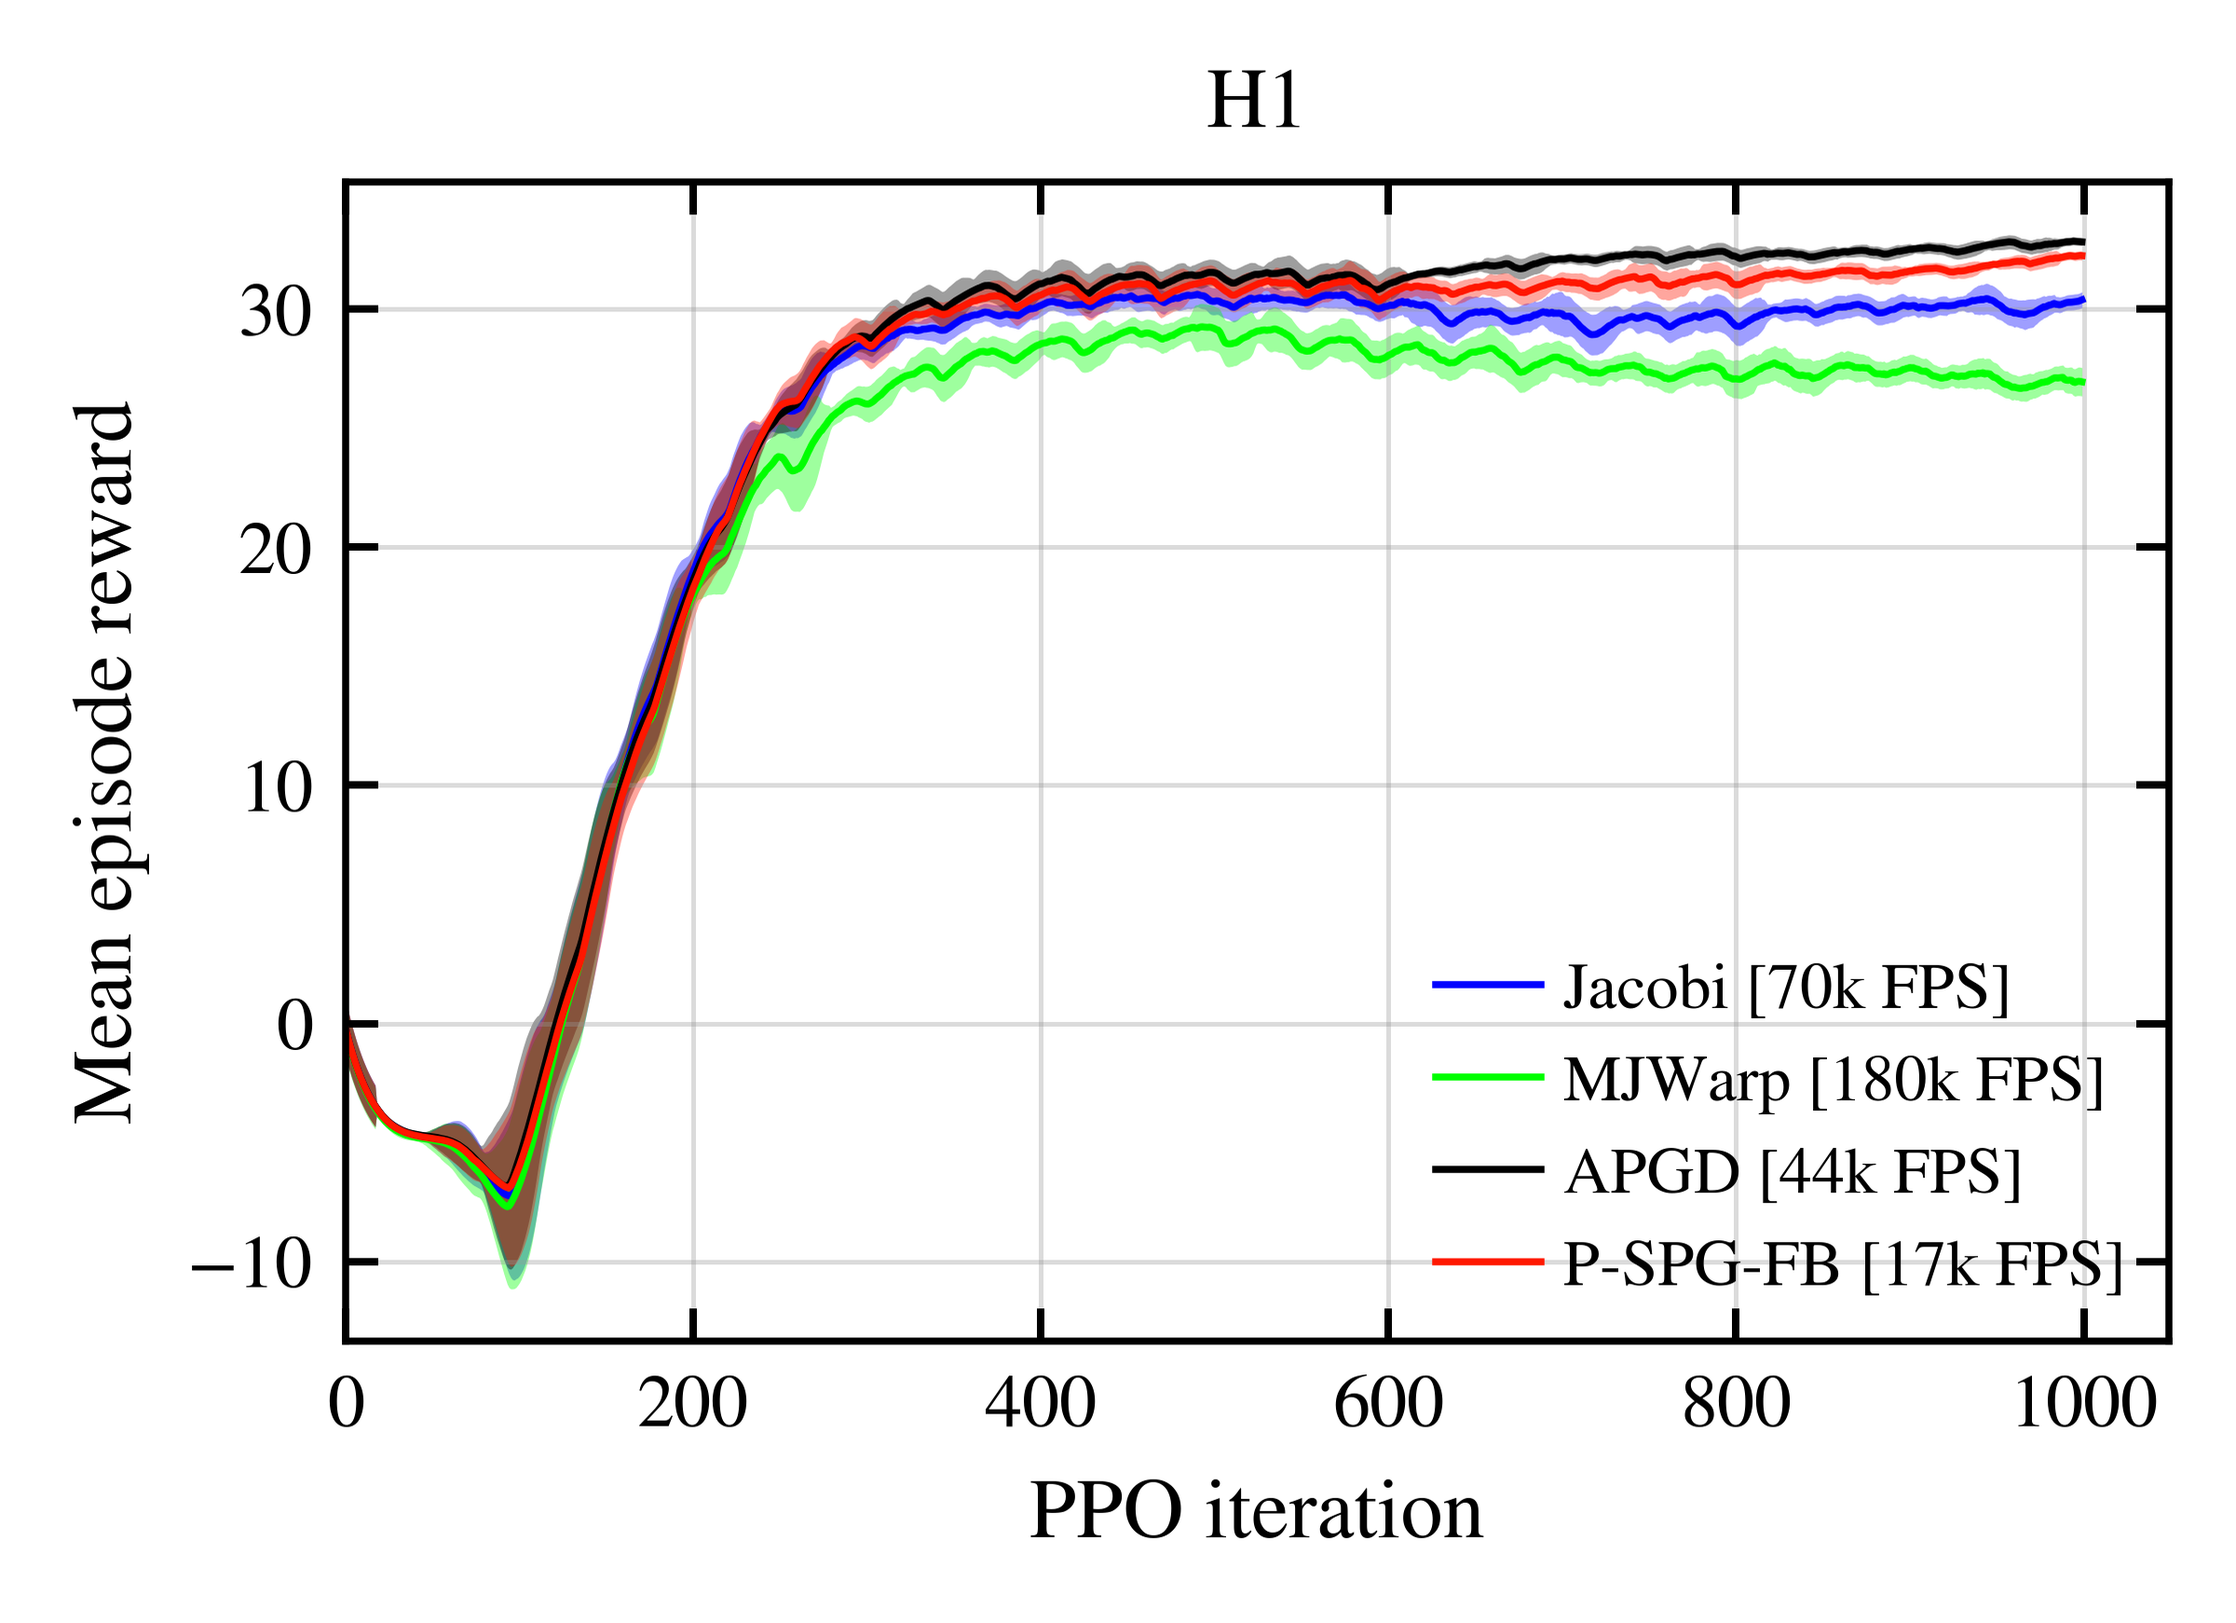
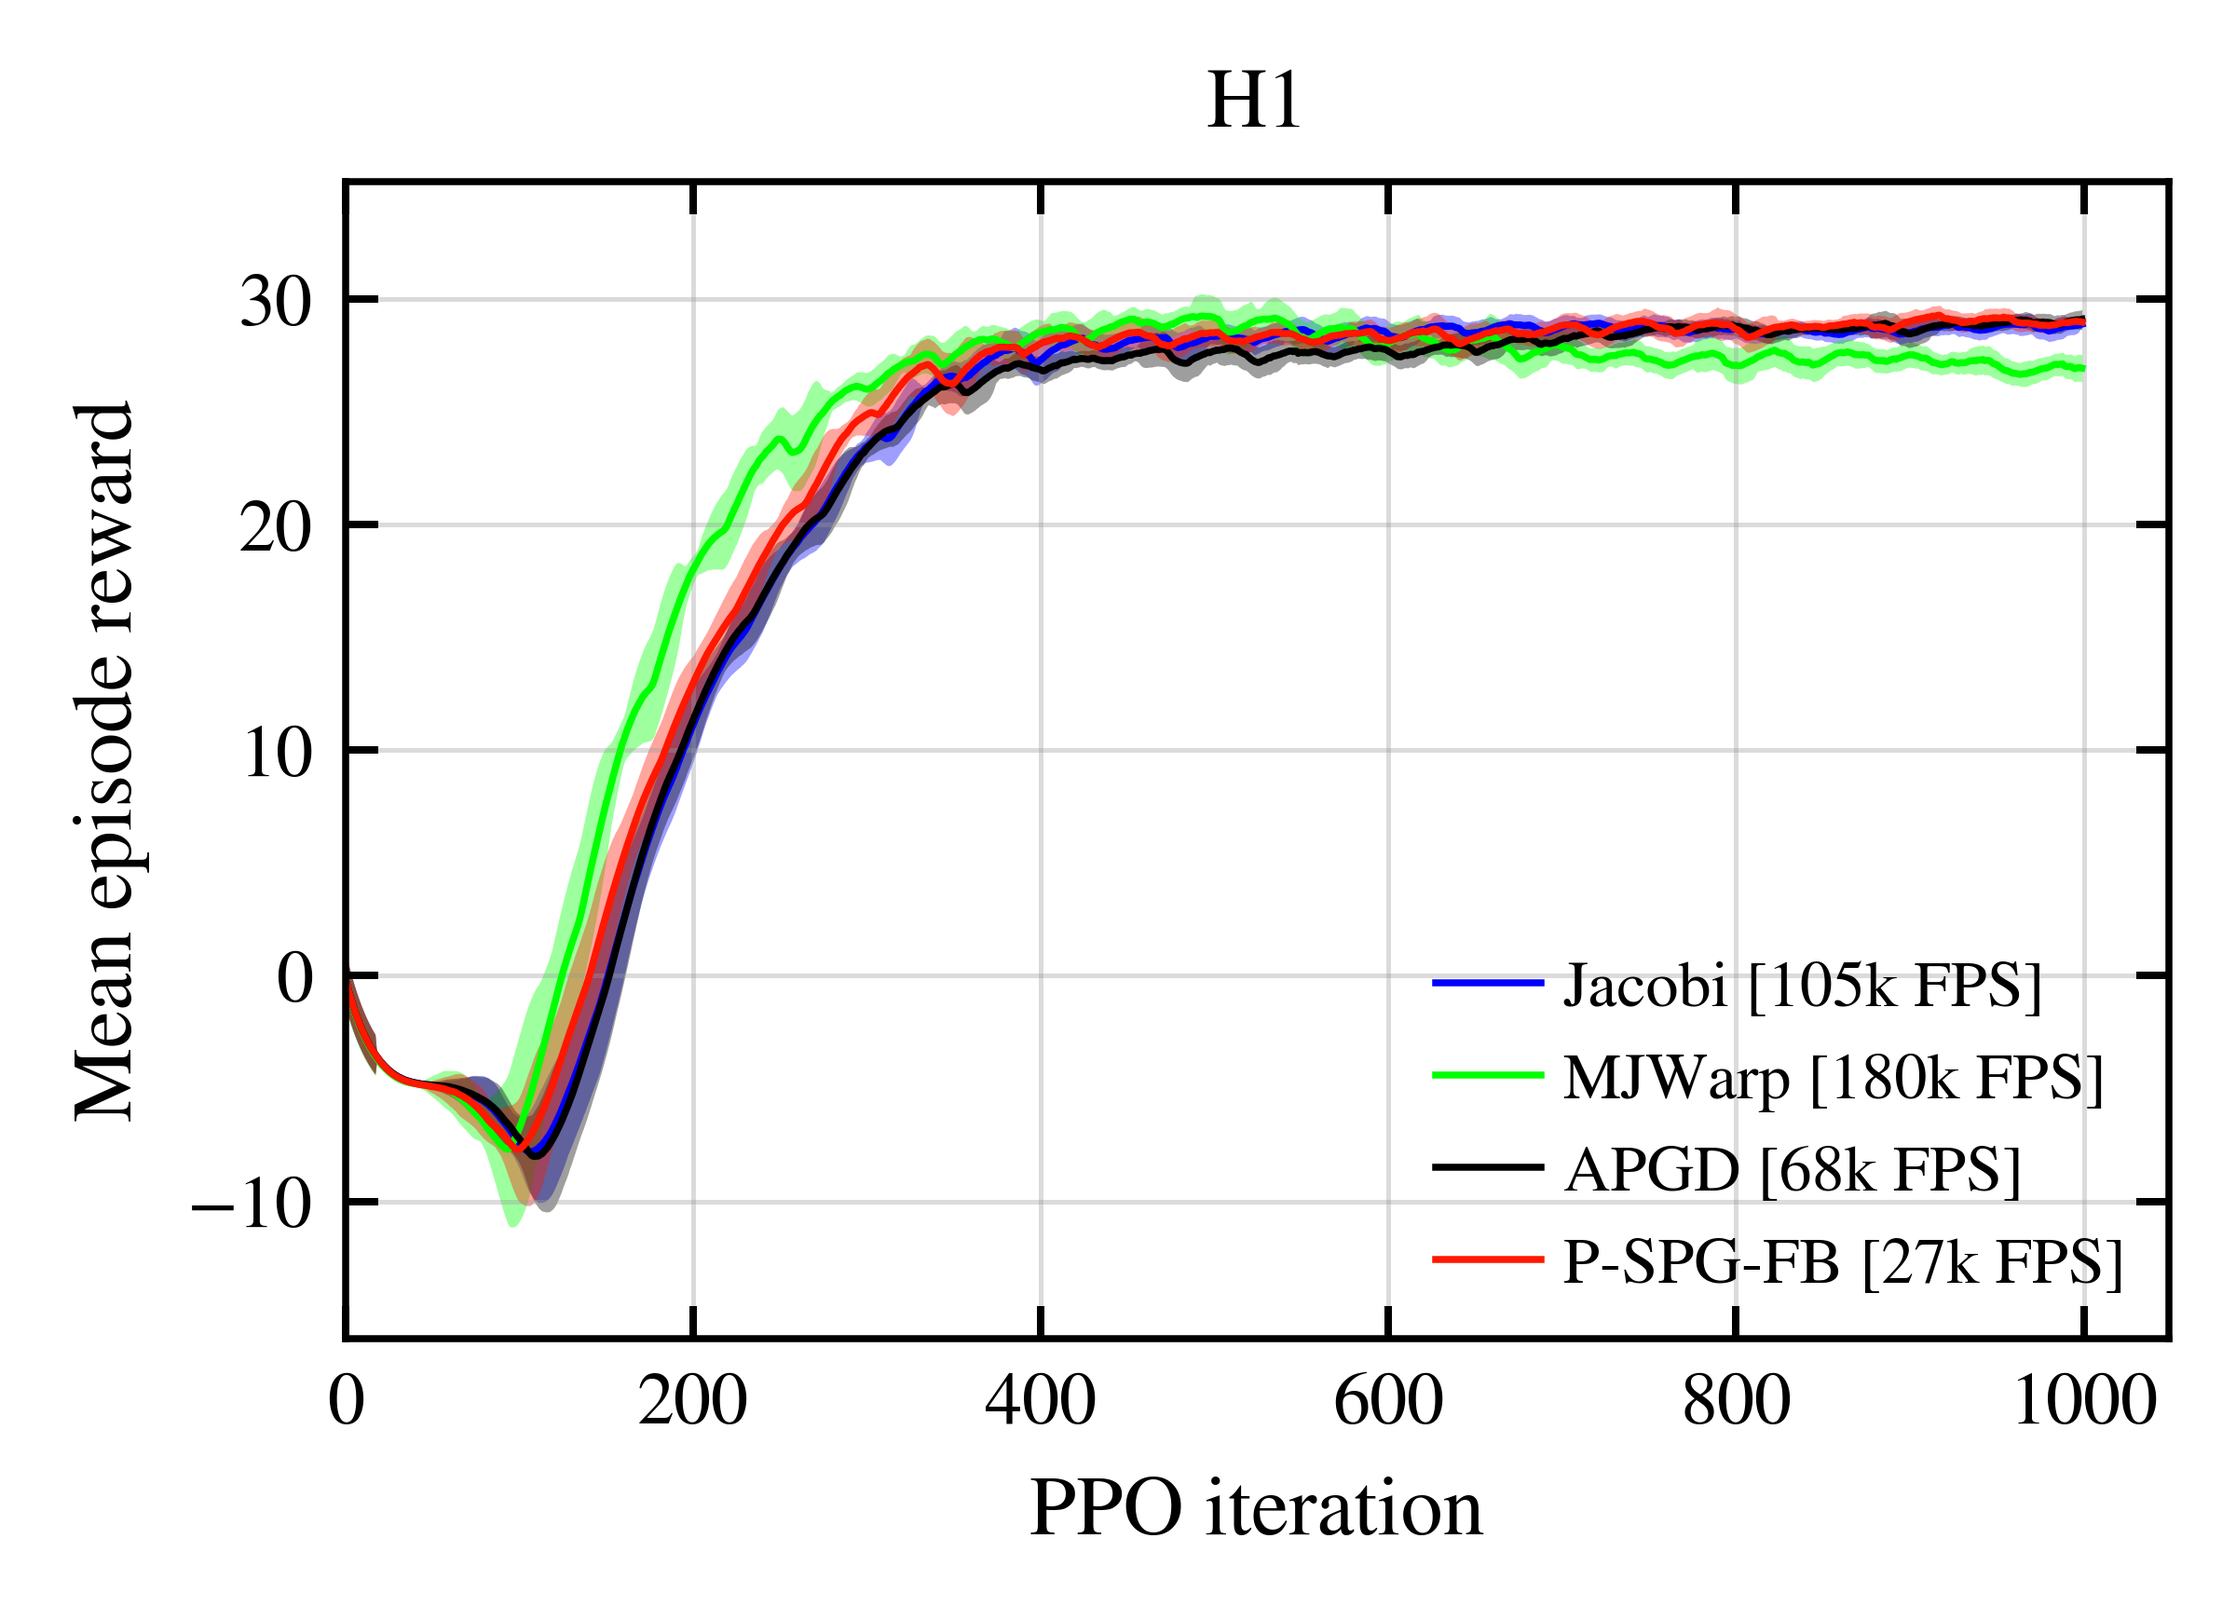
Update RL figures from the latest report results

diff --git a/index.html b/index.html
@@ -143,8 +143,8 @@
             <span class="media-badge" data-demo-badge>Closed-loop mechanism</span>
           </div>
           <figure class="result-wide task-plot">
-            <div class="plot"><p class="plot-status" data-demo-plot-status role="status" hidden></p><a href="assets/images/drlegs-dvi-kamino-comparison.png" data-demo-plot-link><img src="assets/images/drlegs-dvi-kamino-comparison.png" alt="DR Legs training reward and simulation throughput compared with Kamino." data-demo-plot></a></div>
-            <figcaption aria-live="polite"><span>Learning results · click plot to enlarge</span><p data-demo-plot-caption>DR Legs: reward and simulation throughput for one- and two-sweep DVI and Kamino P-ADMM. Earlier closed-loop experiment.</p><a data-demo-extra hidden></a></figcaption>
+            <div class="plot"><p class="plot-status" data-demo-plot-status role="status" hidden></p><a href="assets/images/drlegs-dvi-kamino-comparison.png?v=776ba93c418e" data-demo-plot-link><img src="assets/images/drlegs-dvi-kamino-comparison.png?v=776ba93c418e" alt="DR Legs reward curves and training throughput for Jacobi, APGD, P-SPG-FB, and Kamino P-ADMM." data-demo-plot></a></div>
+            <figcaption aria-live="polite"><span>Learning results · click plot to enlarge</span><p data-demo-plot-caption>DR Legs: reward and median training throughput for Jacobi, APGD, P-SPG-FB, and Kamino P-ADMM.</p><a data-demo-extra hidden></a></figcaption>
           </figure>
           </div>
           <div class="showcase-panel">
@@ -153,32 +153,32 @@
               <h3 data-demo-title>Disney DR Legs</h3>
               <p data-demo-description>A 31-body serial–parallel robot with 36 revolute joints, 12 actuated coordinates, and six independent loops represented directly in the bilateral constraint graph.</p>
               <div class="task-finding" data-demo-finding>
-                <strong data-demo-finding-title>Closed-loop learning at higher throughput</strong>
-                <p data-demo-finding-text>Comparable final reward to Kamino P-ADMM, with 57.7k simulation steps/s for one DVI sweep and 42.7k for two, versus 6.7k for P-ADMM (8.6× and 6.4× faster).</p>
+                <strong data-demo-finding-title>Closed-loop learning with three contact solvers</strong>
+                <p data-demo-finding-text>Jacobi, APGD, and P-SPG-FB reach final rewards of 378.2, 371.7, and 380.3, respectively, compared with 372.7 for the Kamino P-ADMM reference (means over the final 50 updates).</p>
               </div>
             </div>
 
             <div class="demo-selector" role="group" aria-label="Choose a robot rollout">
               <button class="demo-choice is-active" type="button" aria-pressed="true"
-                data-plot="assets/images/drlegs-dvi-kamino-comparison.png" data-plot-alt="DR Legs training reward and simulation throughput compared with Kamino."
-                data-plot-caption="DR Legs: reward and simulation throughput for one- and two-sweep DVI and Kamino P-ADMM. Earlier closed-loop experiment."
+                data-plot="assets/images/drlegs-dvi-kamino-comparison.png?v=776ba93c418e" data-plot-alt="DR Legs reward curves and training throughput for Jacobi, APGD, P-SPG-FB, and Kamino P-ADMM."
+                data-plot-caption="DR Legs: reward and median training throughput for Jacobi, APGD, P-SPG-FB, and Kamino P-ADMM."
                 data-video="assets/videos/paper-2/drlegs.mp4" data-poster="assets/videos/paper-2/drlegs-poster.jpg"
                 data-title="Disney DR Legs" data-badge="Closed-loop mechanism"
-                data-finding-title="Closed-loop learning at higher throughput"
-                data-finding-text="Comparable final reward to Kamino P-ADMM, with 57.7k simulation steps/s for one DVI sweep and 42.7k for two, versus 6.7k for P-ADMM (8.6× and 6.4× faster)."
+                data-finding-title="Closed-loop learning with three contact solvers"
+                data-finding-text="Jacobi, APGD, and P-SPG-FB reach final rewards of 378.2, 371.7, and 380.3, respectively, compared with 372.7 for the Kamino P-ADMM reference (means over the final 50 updates)."
                 data-description="A 31-body serial–parallel robot with 36 revolute joints, 12 actuated coordinates, and six independent loops represented directly in the bilateral constraint graph.">
                 <img src="assets/videos/paper-2/drlegs-poster.jpg" alt="" loading="lazy"><span><strong>DR Legs</strong><small>Serial–parallel · 6 loops</small></span>
               </button>
               <button class="demo-choice" type="button" aria-pressed="false"
-                data-plot="assets/images/learning-updated-g1.png" data-plot-alt="Unitree G1 reward curves and training throughput for DVI solvers and MJWarp."
-                data-plot-caption="G1: updated comparison using the completed 1,500-iteration uninterrupted Jacobi rerun. APGD, P-SPG-FB, and the earlier MJWarp reference are retained."
+                data-plot="assets/images/learning-updated-g1.png?v=92b17b39025d" data-plot-alt="Unitree G1 reward curves and training throughput for DVI solvers and MJWarp."
+                data-plot-caption="G1: reward and training throughput for Jacobi, APGD, P-SPG-FB, and MJWarp."
                 data-video="assets/videos/paper-2/g1.mp4" data-poster="assets/videos/paper-2/g1-poster.jpg"
                 data-title="Unitree G1" data-badge="Tree-structured mechanism"
                 data-description="A humanoid benchmark comparing policy learning across DVI contact solvers and MJWarp.">
                 <img src="assets/videos/paper-2/g1-poster.jpg" alt="" loading="lazy"><span><strong>Unitree G1</strong><small>Humanoid · tree topology</small></span>
               </button>
               <button class="demo-choice" type="button" aria-pressed="false"
-                data-plot="assets/images/learning-current-h1.png" data-plot-alt="Unitree H1 reward curves and training throughput for DVI solvers and MJWarp."
+                data-plot="assets/images/learning-current-h1.png?v=1467faa15053" data-plot-alt="Unitree H1 reward curves and training throughput for DVI solvers and MJWarp."
                 data-plot-caption="H1: reward and training throughput for Jacobi, APGD, P-SPG-FB, and MJWarp."
                 data-video="assets/videos/paper-2/h1.mp4" data-poster="assets/videos/paper-2/h1-poster.jpg"
                 data-title="Unitree H1" data-badge="Tree-structured mechanism"
@@ -186,7 +186,7 @@
                 <img src="assets/videos/paper-2/h1-poster.jpg" alt="" loading="lazy"><span><strong>Unitree H1</strong><small>Humanoid · tree topology</small></span>
               </button>
               <button class="demo-choice" type="button" aria-pressed="false"
-                data-plot="assets/images/learning-current-go2.png" data-plot-alt="Unitree Go2 reward curves and training throughput for DVI solvers and MJWarp."
+                data-plot="assets/images/learning-current-go2.png?v=98d92f86bbee" data-plot-alt="Unitree Go2 reward curves and training throughput for DVI solvers and MJWarp."
                 data-plot-caption="Go2: reward and training throughput for Jacobi, APGD, P-SPG-FB, and MJWarp." data-extra-href="#go2-transfer" data-extra-label="Watch Go2 on hardware and across simulators ↓"
                 data-video="assets/videos/paper-2/go2.mp4" data-poster="assets/videos/paper-2/go2-poster.jpg"
                 data-title="Unitree Go2" data-badge="Tree-structured mechanism"
@@ -194,7 +194,7 @@
                 <img src="assets/videos/paper-2/go2-poster.jpg" alt="" loading="lazy"><span><strong>Unitree Go2</strong><small>Quadruped · tree topology</small></span>
               </button>
               <button class="demo-choice" type="button" aria-pressed="false"
-                data-plot="assets/images/learning-current-anymal-c.png" data-plot-alt="ANYmal C reward curves and training throughput for DVI solvers and MJWarp."
+                data-plot="assets/images/learning-current-anymal-c.png?v=872a3c13d371" data-plot-alt="ANYmal C reward curves and training throughput for DVI solvers and MJWarp."
                 data-plot-caption="ANYmal C: reward and training throughput for Jacobi, APGD, P-SPG-FB, and MJWarp."
                 data-video="assets/videos/paper-2/anymal_c.mp4" data-poster="assets/videos/paper-2/anymal_c-poster.jpg"
                 data-title="ANYmal C" data-badge="Tree-structured mechanism"
@@ -202,15 +202,15 @@
                 <img src="assets/videos/paper-2/anymal_c-poster.jpg" alt="" loading="lazy"><span><strong>ANYmal C</strong><small>Quadruped · tree topology</small></span>
               </button>
               <button class="demo-choice" type="button" aria-pressed="false"
-                data-plot="assets/images/learning-humanoid.png" data-plot-alt="Humanoid reward curves and training throughput for DVI solvers and MJWarp."
-                data-plot-caption="Humanoid: reward and training throughput from the paper benchmark."
+                data-plot="assets/images/learning-humanoid.png?v=b598176ee16b" data-plot-alt="Humanoid reward curves and training throughput for DVI solvers and MJWarp."
+                data-plot-caption="Humanoid: reward and training throughput for Jacobi, APGD, P-SPG-FB, and MJWarp."
                 data-video="assets/videos/paper-2/humanoid.mp4" data-poster="assets/videos/paper-2/humanoid-poster.jpg"
                 data-title="MuJoCo Humanoid" data-badge="Tree-structured benchmark"
                 data-description="The standard MuJoCo humanoid provides a larger tree-structured benchmark for solver and training comparisons.">
                 <img src="assets/videos/paper-2/humanoid-poster.jpg" alt="" loading="lazy"><span><strong>MuJoCo Humanoid</strong><small>Benchmark · tree topology</small></span>
               </button>
               <button class="demo-choice" type="button" aria-pressed="false"
-                data-plot="assets/images/learning-current-ant.png" data-plot-alt="Ant reward curves and training throughput for DVI solvers and MJWarp."
+                data-plot="assets/images/learning-current-ant.png?v=11cd1803994e" data-plot-alt="Ant reward curves and training throughput for DVI solvers and MJWarp."
                 data-plot-caption="Ant: reward and training throughput for Jacobi, APGD, P-SPG-FB, and MJWarp."
                 data-video="assets/videos/paper-2/ant.mp4" data-poster="assets/videos/paper-2/ant-poster.jpg"
                 data-title="MuJoCo Ant" data-badge="Tree-structured benchmark"
@@ -220,7 +220,7 @@
             </div>
           </div>
         </article>
-        <p class="learning-note">Tree-structured reward curves use EMA smoothing and within-run variability bands; legends report median training throughput.</p>
+        <p class="learning-note">Reward curves use EMA smoothing and within-run variability bands; legends report median training throughput. Throughput reflects each run’s full configuration; the MJWarp and Kamino references include historical measurements.</p>
       </div>
     </section>
 

diff --git a/README.md b/README.md
@@ -34,3 +34,27 @@ Open http://localhost:8000/.
 After modifying CSS or JavaScript, refresh its `?v=` content hash in
 `index.html` so returning visitors receive the updated asset. Videos are
 ordinary Git files, including the compressed Go2 hardware recording.
+
+## RL figure sources
+
+The seven task plots are copied without restyling from
+`Newton-DVI-tech-report/results/reinforcement_learning/figures/`.
+The current source figures were rendered on October 22, 2026; their run
+selection is recorded in the report's `LATEST_RESULTS.md` and
+`processed/develop_matrix_20261014/manifest.json`. These include H1's
+recovery-10 rerun, Humanoid's MJWarp reference, and the three-solver DR Legs
+comparison with Kamino P-ADMM.
+
+| Website image in `assets/images/` | Source figure |
+| --- | --- |
+| `learning-current-ant.png` | `ant_jacobi_mjwarp_apgd_progress.png` |
+| `learning-humanoid.png` | `humanoid_jacobi_mjwarp_apgd_progress.png` |
+| `learning-current-h1.png` | `h1_jacobi_mjwarp_apgd_progress.png` |
+| `learning-updated-g1.png` | `g1_jacobi_mjwarp_apgd_progress.png` |
+| `learning-current-go2.png` | `go2_jacobi_mjwarp_apgd_progress.png` |
+| `learning-current-anymal-c.png` | `anymal_c_jacobi_mjwarp_apgd_progress.png` |
+| `drlegs-dvi-kamino-comparison.png` | `dr_legs_solver_comparison.png` |
+
+When replacing a plot, update its `?v=` value in every `index.html` reference
+to the first 12 characters of the image's SHA-256 hash. Check the task caption
+and any numerical findings against the source summary as well.
